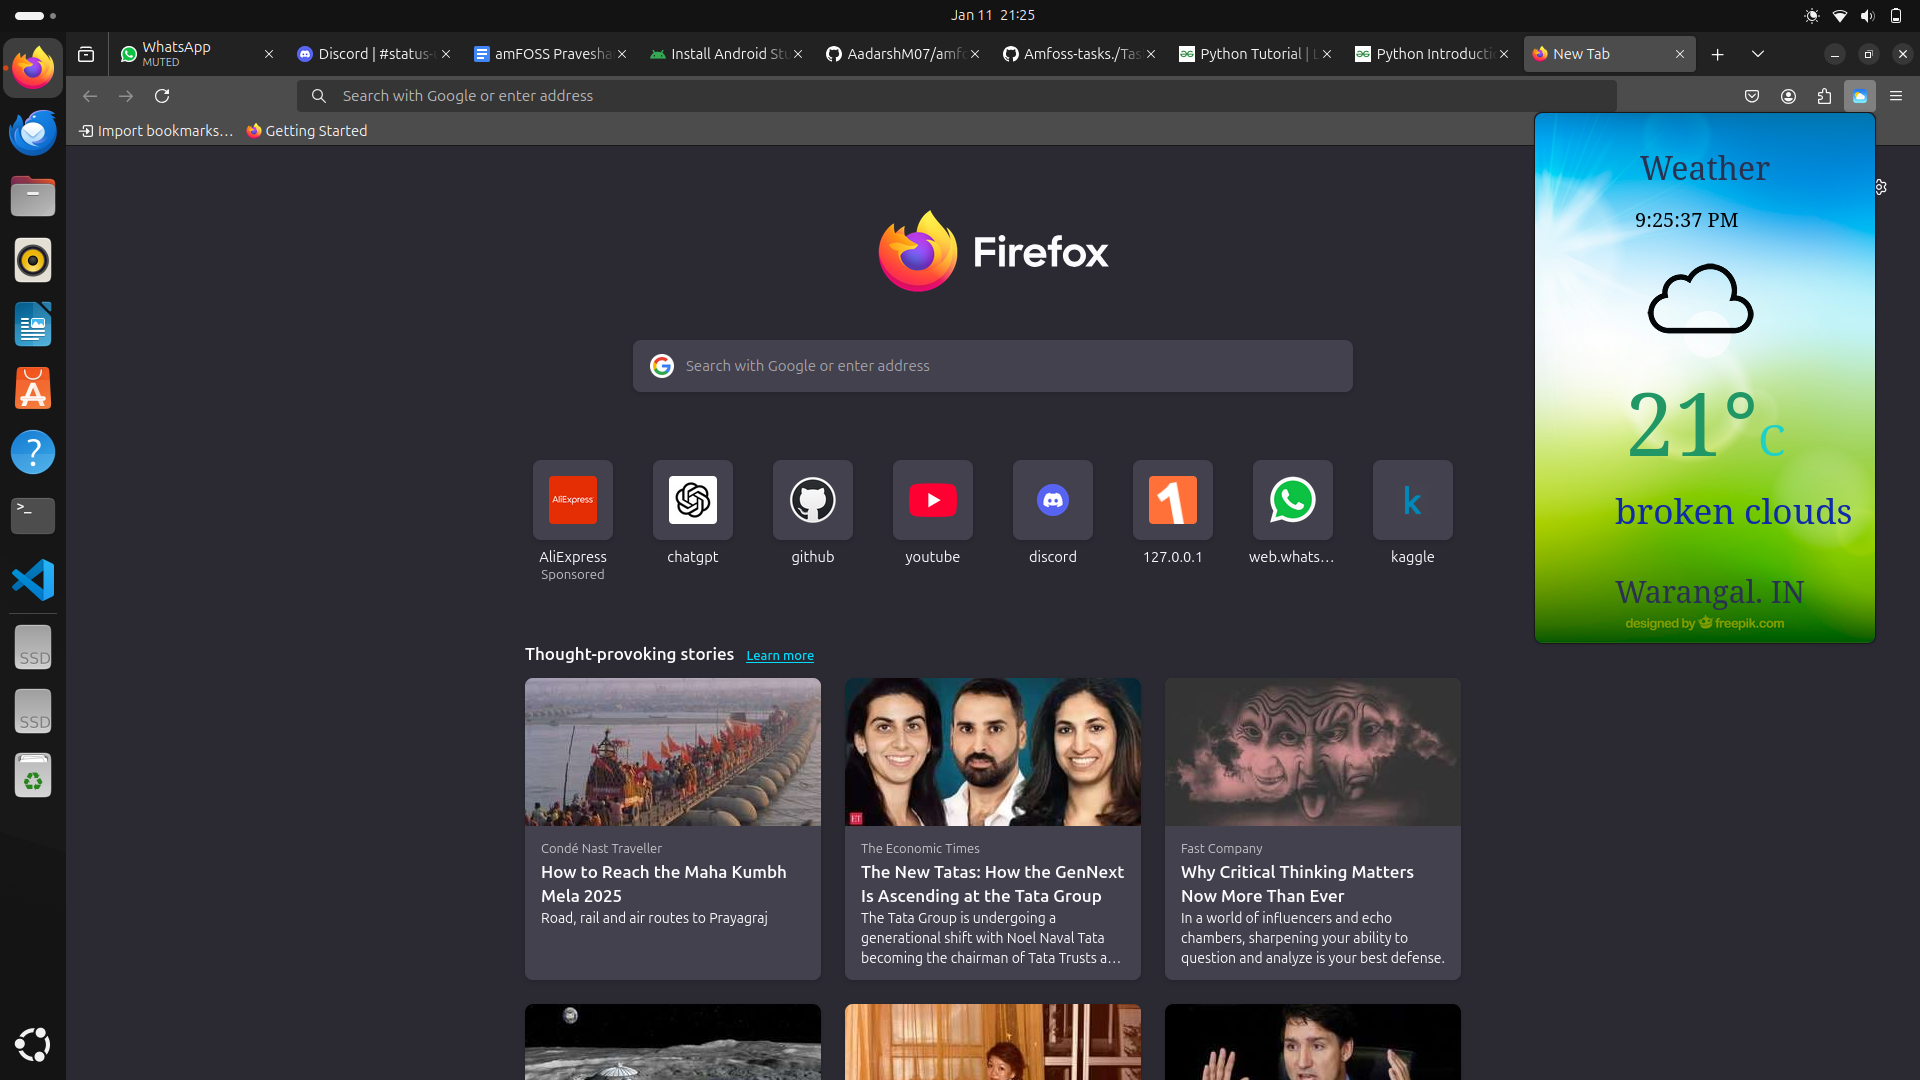
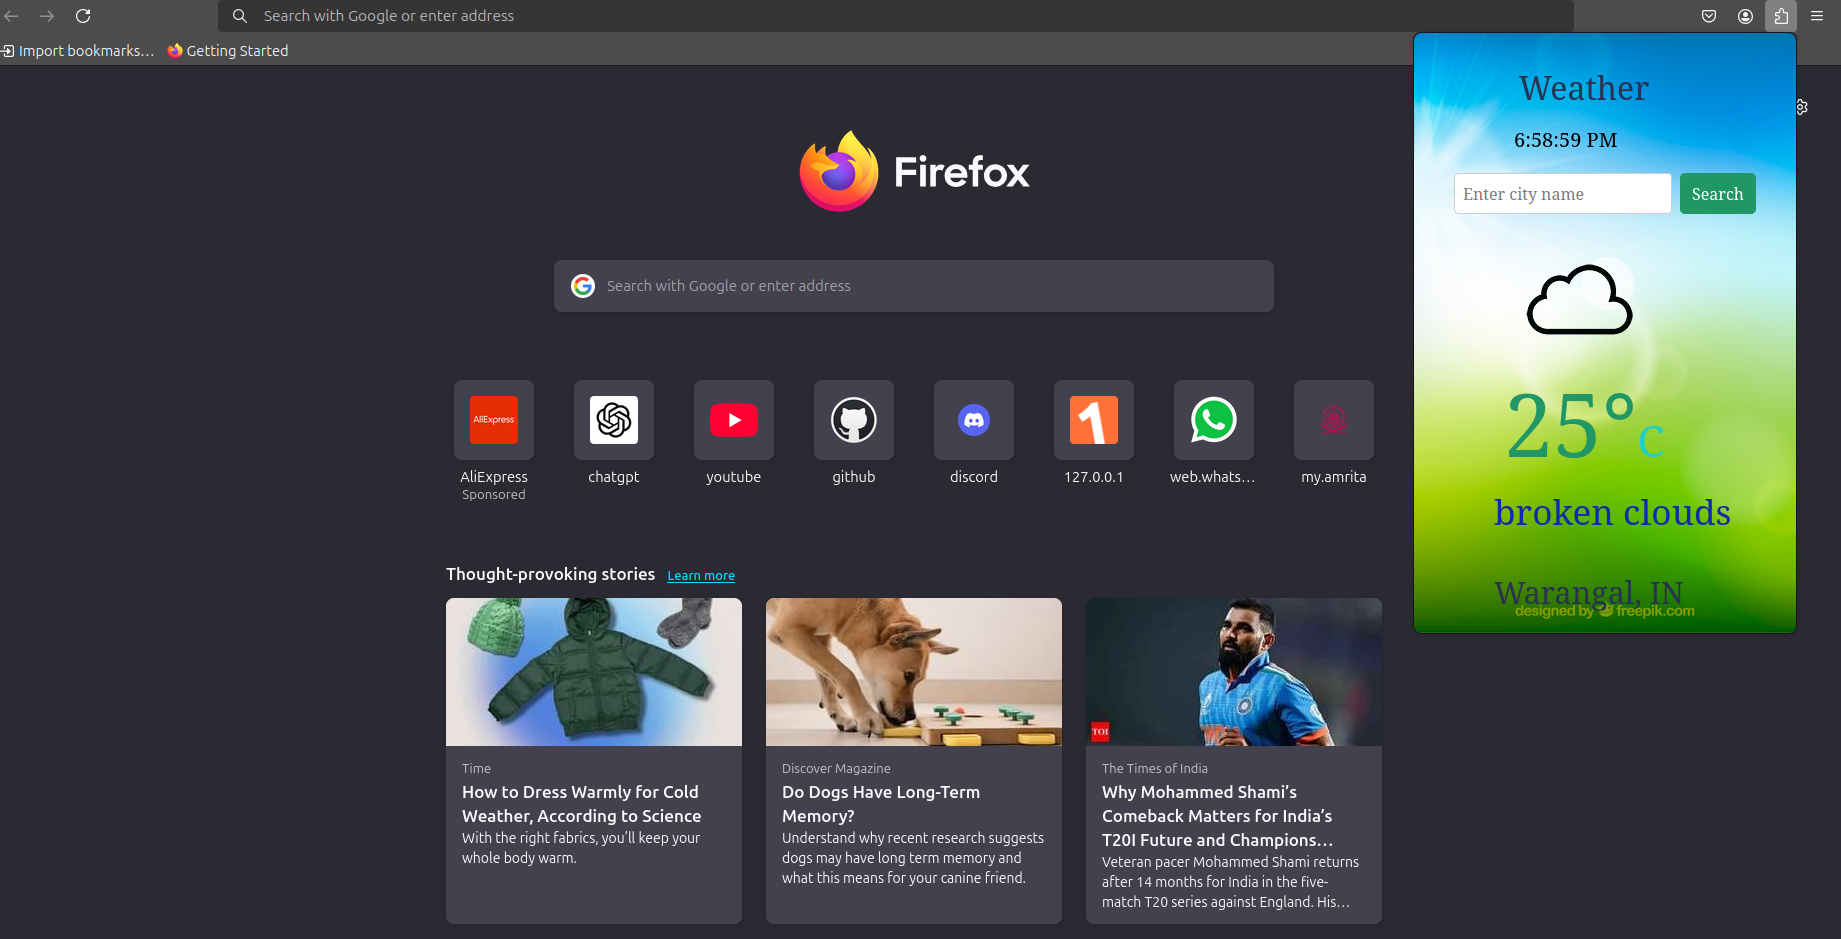
updated codes

diff --git a/Task -07/index.js b/Task -07/index.js
@@ -4,92 +4,108 @@ const tempElement = document.querySelector(".temperature-value p");
 const descElement = document.querySelector(".temperature-description p");
 const locationElement = document.querySelector(".location p");
 const notificationElement = document.querySelector(".notification");
+const searchInput = document.querySelector("#search-input");
+const searchButton = document.querySelector("#search-button");
 
 const weather = {};
-
 weather.temperature = {
-  unit: "celsius"
-}
-const KELVIN = 273;
+  unit: "celsius",
+};
 
+const KELVIN = 273;
 const key = "82005d27a116c2880c8f0fcb866998a0";
 
-if('geolocation' in navigator){
+// Check if browser supports geolocation
+if ("geolocation" in navigator) {
   navigator.geolocation.getCurrentPosition(setPosition, showError);
-}
-else{
+} else {
   notificationElement.style.display = "block";
   notificationElement.innerHTML = "<p>Browser doesn't support geolocation</p>";
 }
 
-function setPosition(position){
+// Set user position
+function setPosition(position) {
   let latitude = position.coords.latitude;
   let longitude = position.coords.longitude;
-  
-  getWeather(latitude, longitude);
+
+  getWeatherByCoords(latitude, longitude);
 }
-function showError(error){
+
+// Show error if geolocation fails
+function showError(error) {
   notificationElement.style.display = "block";
-  notificationElement.innerHTML = `<p>${error.message}</p>`
+  notificationElement.innerHTML = `<p>${error.message}</p>`;
 }
-function getWeather(latitude, longitude){
+
+// Fetch weather using latitude and longitude
+function getWeatherByCoords(latitude, longitude) {
   let api = `http://api.openweathermap.org/data/2.5/weather?lat=${latitude}&lon=${longitude}&appid=${key}`;
 
+  fetchWeather(api);
+}
+
+// Fetch weather using city name
+function getWeatherByCity(city) {
+  let api = `http://api.openweathermap.org/data/2.5/weather?q=${city}&appid=${key}`;
+
+  fetchWeather(api);
+}
+
+// Fetch weather data from API
+function fetchWeather(api) {
   fetch(api)
-    .then(function(response){
-      let data = response.json();
-      return data;
-    })
-    .then(function(data){
+    .then((response) => response.json())
+    .then((data) => {
+      if (data.cod === "404") {
+        notificationElement.style.display = "block";
+        notificationElement.innerHTML = `<p>City not found!</p>`;
+        return;
+      }
+      notificationElement.style.display = "none";
       weather.temperature.value = Math.round(data.main.temp - KELVIN);
       weather.description = data.weather[0].description;
       weather.iconId = data.weather[0].icon;
       weather.city = data.name;
       weather.country = data.sys.country;
-    })
-    .then(function(){
+
       displayWeather();
     })
+    .catch((error) => {
+      notificationElement.style.display = "block";
+      notificationElement.innerHTML = `<p>Error fetching data</p>`;
+    });
 }
 
+// Display weather to UI
 function displayWeather() {
-  iconElement.innerHTML= `<img src="icons/${weather.iconId}.png"/>`;
-  tempElement.innerHTML = `${weather.temperature.value}°<span>C</span></p>`;
+  iconElement.innerHTML = `<img src="icons/${weather.iconId}.png"/>`;
+  tempElement.innerHTML = `${weather.temperature.value}°<span>C</span>`;
   descElement.innerHTML = weather.description;
-  locationElement.innerHTML = `${weather.city}. ${weather.country}`;
+  locationElement.innerHTML = `${weather.city}, ${weather.country}`;
 }
-function CelsiusToFahrenhit(temperature){
-  return (temperature*9/5) + 32;
-}
-tempElement.addEventListener("click", function(){
-  if(weather.temperature.value === undefined) return;
-  
-  if(weather.temperature.unit == "celsius")
-  {
-    let fahrenhit = Math.round(CelsiusToFahrenhit(weather.temperature.value));
-    tempElement.innerHTML = `${fahrenhit}°<span>F</span></p>`;
-    weather.temperature.unit="fahrenhit";
-  }
-  else{
-    tempElement.innerHTML = `${weather.temperature.value}°<span>C</span></p>`;
-    weather.temperature.unit = "celsius"
-  }
-})
 
+// Search functionality
+searchButton.addEventListener("click", () => {
+  const city = searchInput.value.trim();
+  if (city) {
+    getWeatherByCity(city);
+  }
+});
+
+document.addEventListener("DOMContentLoaded", () => {
+  updateTime("time");
+});
+
+// Update the clock
 function updateTime(timeClass) {
   const timeElement = document.querySelector(`.${timeClass}`);
-  
+
   function setTime() {
     const now = new Date();
     const formattedTime = now.toLocaleTimeString();
     timeElement.textContent = ` ${formattedTime}`;
   }
 
-  setTime(); 
-  setInterval(setTime, 1000); 
+  setTime();
+  setInterval(setTime, 1000);
 }
-
-document.addEventListener('DOMContentLoaded', () => {
-  updateTime('time');
-});
-

diff --git a/Task -07/index.html b/Task -07/index.html
@@ -3,35 +3,36 @@
 <head>
   <meta charset="UTF-8">
   <title>Weather App</title>
-  <link rel="stylesheet" href="font/Rimouski.css">
-  <link rel="stylesheet" href="style.css">  
+  <link rel="stylesheet" href="style.css">
 </head>
 <body>
-    <div class="app-title">
-      <p>Weather</p>
-    </div>
-    <div class="time">
-      <p class="loading">Loading...</p>
-     
-    </div>
-    
-    <div class="notification"></div>
-    
-      <div class="weather-icon">
-        <img src="icons/unknown.png" alt="">
-      </div>
-      
-      <div class="temperature-value">
-        <p>- °<span>C</span></p>
-      </div>
-      <div class="temperature-description">
-        <p>-</p>
-      </div>
-      <div class="location">
-        <p>-</p>
-      </div>
-    </div>
+  <div class="app-title">
+    <p>Weather</p>
   </div>
+  <div class="time">
+    <p class="loading">Loading...</p>
+  </div>
+  <div class="notification"></div>
+
+  <div class="search-bar">
+    <input type="text" id="search-input" placeholder="Enter city name" />
+    <button id="search-button">Search</button>
+  </div>
+
+  <div class="weather-icon">
+    <img src="icons/unknown.png" alt="">
+  </div>
+
+  <div class="temperature-value">
+    <p>- °<span>C</span></p>
+  </div>
+  <div class="temperature-description">
+    <p>-</p>
+  </div>
+  <div class="location">
+    <p>-</p>
+  </div>
+
   <script src="index.js"></script>
 </body>
 </html>

diff --git a/Task -07/style.css b/Task -07/style.css
@@ -87,6 +87,35 @@ body{
     color: gray;
     margin-left: 60px;
   }
+
+.search-bar {
+    display: flex;
+    justify-content: center;
+    margin: 20px;
+  }
+  
+  #search-input {
+    width: 200px;
+    padding: 8px;
+    font-size: 16px;
+    border-radius: 5px;
+    border: 1px solid #ccc;
+  }
+  
+  #search-button {
+    padding: 8px 12px;
+    margin-left: 8px;
+    font-size: 16px;
+    border: none;
+    background-color: #219766;
+    color: white;
+    cursor: pointer;
+    border-radius: 5px;
+  }
+  
+  #search-button:hover {
+    background-color: #1e875a;
+  }
   
  
 
